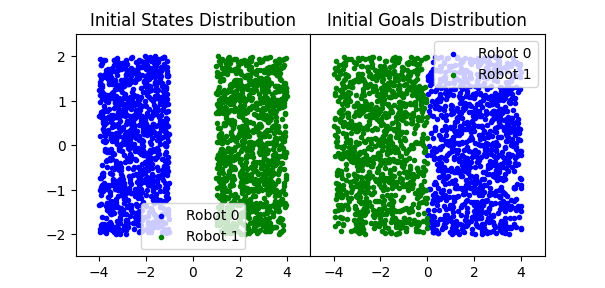
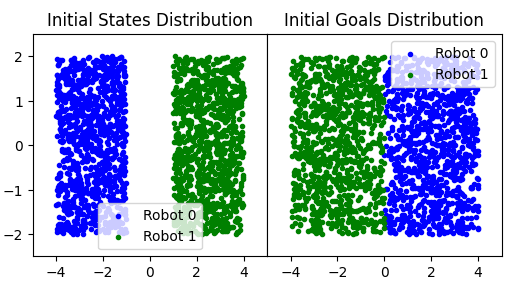
Updates from Overleaf

diff --git a/docs/latex/FinalReport.tex b/docs/latex/FinalReport.tex
@@ -184,18 +184,24 @@ The value network was first trained using supervised learning (SL) with example 
 \begin{figure}[h!]
     \vspace{-0.2in}
     \centering
-    \includegraphics[width=0.4\textwidth]{docs/latex/figures/train_states_distribution.png}
-    \caption{SL Training Data Initial State Distribution - 1000 Simulations}
+    \includegraphics[width=0.9\linewidth]{docs/latex/figures/training_data_distribution.png}
+    \caption{SL Training Data Initial State and Goal Distribution - 1000 Simulations}
 \end{figure}
 
-\begin{figure}[h!]
-    \vspace{-0.2in}
+% \begin{figure}[h!]
+%     \vspace{-0.2in}
+%     \centering
+%     \includegraphics[width=0.4\textwidth]{docs/latex/figures/train_goals_distribution.png}
+%     \caption{SL Training Data Initial Goal Distribution - 1000 Simulations}
+% \end{figure}
+
+An example ORCA trajectory from the training dataset is shown in Fig. \ref{fig:ORCA}.
+\begin{figure}
     \centering
-    \includegraphics[width=0.4\textwidth]{docs/latex/figures/train_goals_distribution.png}
-    \caption{SL Training Data Initial Goal Distribution - 1000 Simulations}
+    \includegraphics{}
+    \caption{Caption}
+    \label{fig:my_label}
 \end{figure}
-
-An example ORCA trajectory from the training dataset is shown in Fig. \ref
 
 \section{Results}
 
